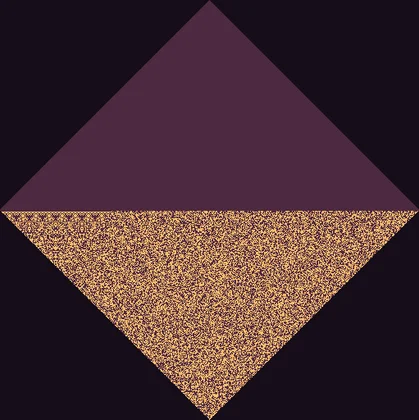
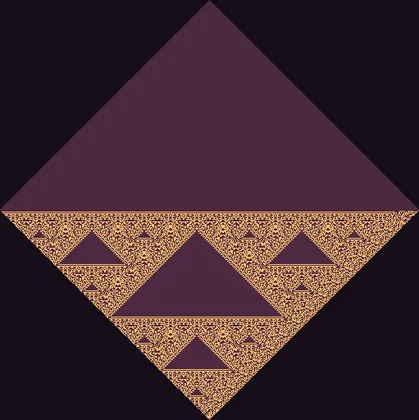
Показать раннюю симметрию в GIF ромбов AND

Changed region(s): [[0.0, 0.4952, 0.9928, 1.0]]

diff --git a/issledovanie/image-journal/rhomb-collection/gifs.html b/issledovanie/image-journal/rhomb-collection/gifs.html
@@ -22,7 +22,7 @@
     <header class="rhomb-intro">
       <p class="entry-meta">30 GIF · 3:00 каждая · 512 строк</p>
       <h1>Ромбовые GIF</h1>
-      <p>Для каждого вида выбраны четыре опорных кадра из окрестностей опубликованных построений. Соседние состояния идут с шагом 4. В подписях указана доля единиц, совпавших при отражении лучшего опорного кадра.</p>
+      <p>Для каждого вида выбраны четыре опорных кадра. Если в ранней фазе отражение заметнее, она тоже включена. Соседние состояния идут с шагом 4. В подписях указана доля единиц, совпавших при отражении лучшего опорного кадра.</p>
       <nav class="contents" aria-label="Группы анимаций">
         <a href="#build-modes">Построение поля</a>
         <a href="#field-views">Виды поля</a>
@@ -42,11 +42,11 @@
           </figcaption>
         </figure>
         <figure id="field-2-bounce-and">
-          <a class="image-link" href="gifs/field-2-bounce-and.gif" aria-label="Открыть GIF «Отскок · 2N−1 · AND»"><img src="gifs/field-2-bounce-and.webp" alt="Отскок · 2N−1 · AND · опорный кадр 92" loading="lazy" decoding="async"></a>
+          <a class="image-link" href="gifs/field-2-bounce-and.gif" aria-label="Открыть GIF «Отскок · 2N−1 · AND»"><img src="gifs/field-2-bounce-and.webp" alt="Отскок · 2N−1 · AND · опорный кадр 1" loading="lazy" decoding="async"></a>
           <figcaption>
             <span class="figure-name">Отскок · 2N−1 · AND</span>
-            <p class="rhomb-settings">Кадры 92, 316, 1112, 1444 · 21 % совпадений по вертикальной оси</p>
-            <span class="figure-links"><a href="gifs/field-2-bounce-and.gif">Смотреть GIF</a><a href="gifs/field-2-bounce-and.gif" download>Скачать GIF</a><a href="frame.html?series=field-2-bounce-and&amp;palette=amber&amp;edition=1024">Исходный кадр 247</a></span>
+            <p class="rhomb-settings">Кадры 1, 316, 1112, 1444 · 100 % совпадений по вертикальной оси</p>
+            <span class="figure-links"><a href="gifs/field-2-bounce-and.gif">Смотреть GIF</a><a href="gifs/field-2-bounce-and.gif" download>Скачать GIF</a><a href="wallpapers.html#field-2-bounce-and">Серия на 1024 строки</a></span>
           </figcaption>
         </figure>
         <figure id="field-2-wrap-xor">
@@ -58,11 +58,11 @@
           </figcaption>
         </figure>
         <figure id="field-2-wrap-and">
-          <a class="image-link" href="gifs/field-2-wrap-and.gif" aria-label="Открыть GIF «Перескок · 2N−1 · AND»"><img src="gifs/field-2-wrap-and.webp" alt="Перескок · 2N−1 · AND · опорный кадр 116" loading="lazy" decoding="async"></a>
+          <a class="image-link" href="gifs/field-2-wrap-and.gif" aria-label="Открыть GIF «Перескок · 2N−1 · AND»"><img src="gifs/field-2-wrap-and.webp" alt="Перескок · 2N−1 · AND · опорный кадр 1" loading="lazy" decoding="async"></a>
           <figcaption>
             <span class="figure-name">Перескок · 2N−1 · AND</span>
-            <p class="rhomb-settings">Кадры 116, 364, 1112, 1444 · 17 % совпадений по вертикальной оси</p>
-            <span class="figure-links"><a href="gifs/field-2-wrap-and.gif">Смотреть GIF</a><a href="gifs/field-2-wrap-and.gif" download>Скачать GIF</a><a href="frame.html?series=field-2-wrap-and&amp;palette=amber&amp;edition=1024">Исходный кадр 295</a></span>
+            <p class="rhomb-settings">Кадры 1, 364, 1112, 1444 · 100 % совпадений по вертикальной оси</p>
+            <span class="figure-links"><a href="gifs/field-2-wrap-and.gif">Смотреть GIF</a><a href="gifs/field-2-wrap-and.gif" download>Скачать GIF</a><a href="wallpapers.html#field-2-wrap-and">Серия на 1024 строки</a></span>
           </figcaption>
         </figure>
         <figure id="field-2-reverse-xor">
@@ -74,11 +74,11 @@
           </figcaption>
         </figure>
         <figure id="field-2-reverse-and">
-          <a class="image-link" href="gifs/field-2-reverse-and.gif" aria-label="Открыть GIF «Разворот при касании · 2N−1 · AND»"><img src="gifs/field-2-reverse-and.webp" alt="Разворот при касании · 2N−1 · AND · опорный кадр 844" loading="lazy" decoding="async"></a>
+          <a class="image-link" href="gifs/field-2-reverse-and.gif" aria-label="Открыть GIF «Разворот при касании · 2N−1 · AND»"><img src="gifs/field-2-reverse-and.webp" alt="Разворот при касании · 2N−1 · AND · опорный кадр 1" loading="lazy" decoding="async"></a>
           <figcaption>
             <span class="figure-name">Разворот при касании · 2N−1 · AND</span>
-            <p class="rhomb-settings">Кадры 56, 204, 544, 844 · 57 % совпадений по вертикальной оси</p>
-            <span class="figure-links"><a href="gifs/field-2-reverse-and.gif">Смотреть GIF</a><a href="gifs/field-2-reverse-and.gif" download>Скачать GIF</a><a href="frame.html?series=field-2-reverse-and&amp;palette=rose&amp;edition=1024">Исходный кадр 1623</a></span>
+            <p class="rhomb-settings">Кадры 1, 204, 544, 844 · 100 % совпадений по вертикальной оси</p>
+            <span class="figure-links"><a href="gifs/field-2-reverse-and.gif">Смотреть GIF</a><a href="gifs/field-2-reverse-and.gif" download>Скачать GIF</a><a href="wallpapers.html#field-2-reverse-and">Серия на 1024 строки</a></span>
           </figcaption>
         </figure>
         <figure id="field-4-bounce-xor">
@@ -90,11 +90,11 @@
           </figcaption>
         </figure>
         <figure id="field-4-bounce-and">
-          <a class="image-link" href="gifs/field-4-bounce-and.gif" aria-label="Открыть GIF «Отскок · 4N−1 · AND»"><img src="gifs/field-4-bounce-and.webp" alt="Отскок · 4N−1 · AND · опорный кадр 92" loading="lazy" decoding="async"></a>
+          <a class="image-link" href="gifs/field-4-bounce-and.gif" aria-label="Открыть GIF «Отскок · 4N−1 · AND»"><img src="gifs/field-4-bounce-and.webp" alt="Отскок · 4N−1 · AND · опорный кадр 1" loading="lazy" decoding="async"></a>
           <figcaption>
             <span class="figure-name">Отскок · 4N−1 · AND</span>
-            <p class="rhomb-settings">Кадры 92, 316, 2136, 2468 · 21 % совпадений по вертикальной оси</p>
-            <span class="figure-links"><a href="gifs/field-4-bounce-and.gif">Смотреть GIF</a><a href="gifs/field-4-bounce-and.gif" download>Скачать GIF</a><a href="frame.html?series=field-4-bounce-and&amp;palette=amber&amp;edition=1024">Исходный кадр 247</a></span>
+            <p class="rhomb-settings">Кадры 1, 316, 2136, 2468 · 100 % совпадений по вертикальной оси</p>
+            <span class="figure-links"><a href="gifs/field-4-bounce-and.gif">Смотреть GIF</a><a href="gifs/field-4-bounce-and.gif" download>Скачать GIF</a><a href="wallpapers.html#field-4-bounce-and">Серия на 1024 строки</a></span>
           </figcaption>
         </figure>
         <figure id="field-4-wrap-xor">
@@ -106,11 +106,11 @@
           </figcaption>
         </figure>
         <figure id="field-4-wrap-and">
-          <a class="image-link" href="gifs/field-4-wrap-and.gif" aria-label="Открыть GIF «Перескок · 4N−1 · AND»"><img src="gifs/field-4-wrap-and.webp" alt="Перескок · 4N−1 · AND · опорный кадр 116" loading="lazy" decoding="async"></a>
+          <a class="image-link" href="gifs/field-4-wrap-and.gif" aria-label="Открыть GIF «Перескок · 4N−1 · AND»"><img src="gifs/field-4-wrap-and.webp" alt="Перескок · 4N−1 · AND · опорный кадр 1" loading="lazy" decoding="async"></a>
           <figcaption>
             <span class="figure-name">Перескок · 4N−1 · AND</span>
-            <p class="rhomb-settings">Кадры 116, 364, 2136, 2468 · 17 % совпадений по вертикальной оси</p>
-            <span class="figure-links"><a href="gifs/field-4-wrap-and.gif">Смотреть GIF</a><a href="gifs/field-4-wrap-and.gif" download>Скачать GIF</a><a href="frame.html?series=field-4-wrap-and&amp;palette=amber&amp;edition=1024">Исходный кадр 295</a></span>
+            <p class="rhomb-settings">Кадры 1, 364, 2136, 2468 · 100 % совпадений по вертикальной оси</p>
+            <span class="figure-links"><a href="gifs/field-4-wrap-and.gif">Смотреть GIF</a><a href="gifs/field-4-wrap-and.gif" download>Скачать GIF</a><a href="wallpapers.html#field-4-wrap-and">Серия на 1024 строки</a></span>
           </figcaption>
         </figure>
         <figure id="field-4-reverse-xor">
@@ -122,11 +122,11 @@
           </figcaption>
         </figure>
         <figure id="field-4-reverse-and">
-          <a class="image-link" href="gifs/field-4-reverse-and.gif" aria-label="Открыть GIF «Разворот при касании · 4N−1 · AND»"><img src="gifs/field-4-reverse-and.webp" alt="Разворот при касании · 4N−1 · AND · опорный кадр 844" loading="lazy" decoding="async"></a>
+          <a class="image-link" href="gifs/field-4-reverse-and.gif" aria-label="Открыть GIF «Разворот при касании · 4N−1 · AND»"><img src="gifs/field-4-reverse-and.webp" alt="Разворот при касании · 4N−1 · AND · опорный кадр 1" loading="lazy" decoding="async"></a>
           <figcaption>
             <span class="figure-name">Разворот при касании · 4N−1 · AND</span>
-            <p class="rhomb-settings">Кадры 56, 204, 544, 844 · 57 % совпадений по вертикальной оси</p>
-            <span class="figure-links"><a href="gifs/field-4-reverse-and.gif">Смотреть GIF</a><a href="gifs/field-4-reverse-and.gif" download>Скачать GIF</a><a href="frame.html?series=field-4-reverse-and&amp;palette=rose&amp;edition=1024">Исходный кадр 1623</a></span>
+            <p class="rhomb-settings">Кадры 1, 204, 544, 844 · 100 % совпадений по вертикальной оси</p>
+            <span class="figure-links"><a href="gifs/field-4-reverse-and.gif">Смотреть GIF</a><a href="gifs/field-4-reverse-and.gif" download>Скачать GIF</a><a href="wallpapers.html#field-4-reverse-and">Серия на 1024 строки</a></span>
           </figcaption>
         </figure>
       </div>
@@ -220,11 +220,11 @@
           </figcaption>
         </figure>
         <figure id="coin-xor-mirror">
-          <a class="image-link" href="gifs/coin-xor-mirror.gif" aria-label="Открыть GIF «XOR · с отражением»"><img src="gifs/coin-xor-mirror.webp" alt="XOR · с отражением · опорный кадр 376" loading="lazy" decoding="async"></a>
+          <a class="image-link" href="gifs/coin-xor-mirror.gif" aria-label="Открыть GIF «XOR · с отражением»"><img src="gifs/coin-xor-mirror.webp" alt="XOR · с отражением · опорный кадр 32" loading="lazy" decoding="async"></a>
           <figcaption>
             <span class="figure-name">XOR · с отражением</span>
-            <p class="rhomb-settings">Кадры 376, 700, 1160, 1800 · 50 % совпадений по вертикальной оси</p>
-            <span class="figure-links"><a href="gifs/coin-xor-mirror.gif">Смотреть GIF</a><a href="gifs/coin-xor-mirror.gif" download>Скачать GIF</a><a href="frame.html?series=coin-xor-mirror&amp;palette=amber&amp;edition=1024">Исходный кадр 736</a></span>
+            <p class="rhomb-settings">Кадры 32, 700, 1160, 1800 · 56 % совпадений по вертикальной оси</p>
+            <span class="figure-links"><a href="gifs/coin-xor-mirror.gif">Смотреть GIF</a><a href="gifs/coin-xor-mirror.gif" download>Скачать GIF</a><a href="wallpapers.html#coin-xor-mirror">Серия на 1024 строки</a></span>
           </figcaption>
         </figure>
         <figure id="coin-and">
